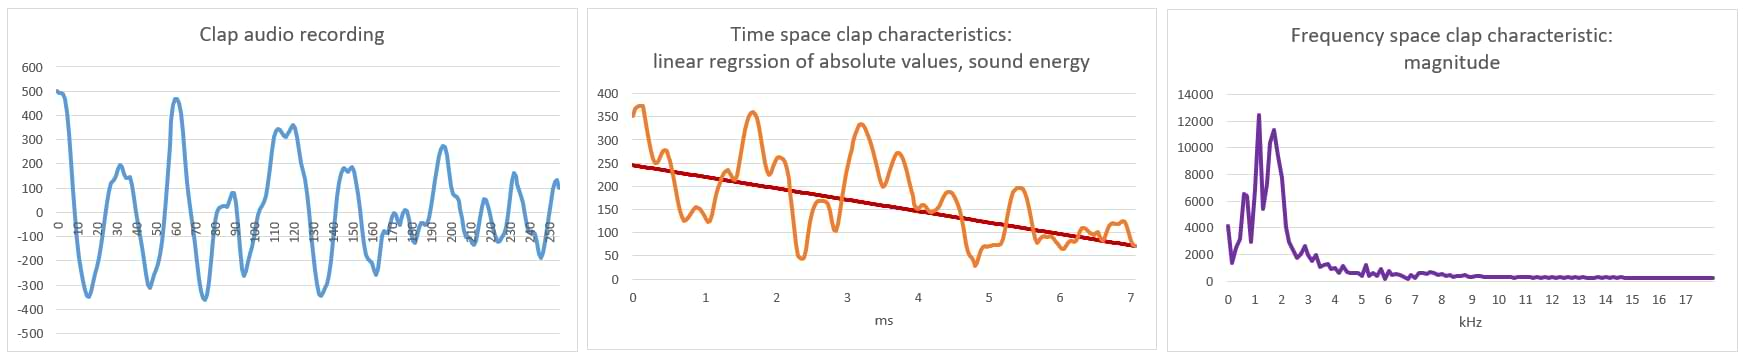
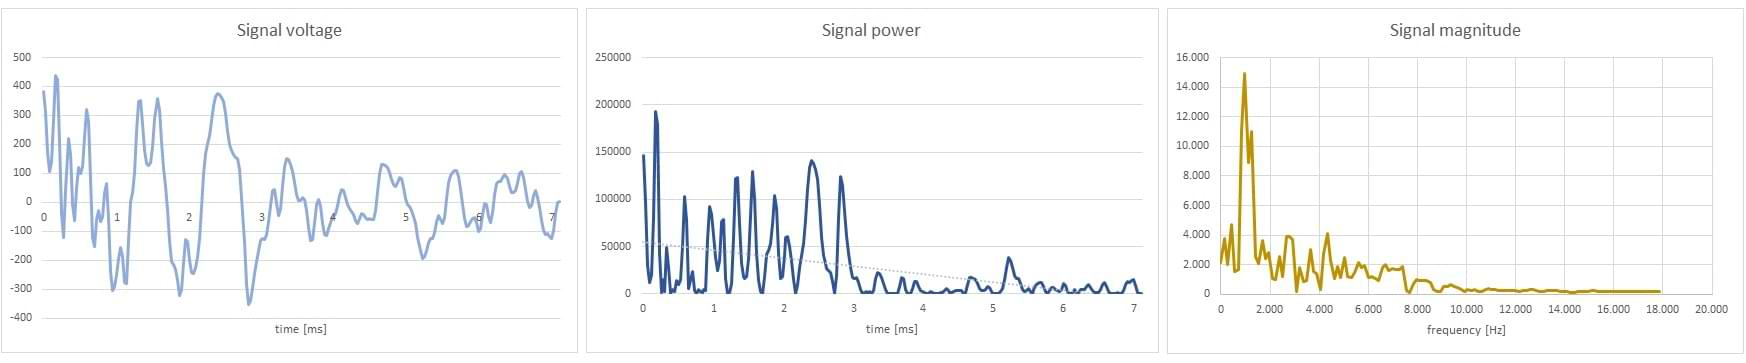
Add files via upload

diff --git a/README.md b/README.md
@@ -1,14 +1,15 @@
 
-# Neural Network from Scratch (C++ for Arduino) - Clap Recognition
+# Neural Network from Scratch (C++ for Arduino) - A Clap Recognition System
 
-Using a neural network for clap recognition might seem like overkill, but it was an exciting challenge to implement. Since this task isn’t overly demanding, Arduino boards can handle it quite well. My goal was to create a system that detects claps and toggles an LED accordingly.
+
+Ever dreamed of building a clap recognition system that stays focused—even when a dog barks or dishes clatter in the background? Lightweight neural network delivers 97% accurate clap detection, all while running efficiently on Arduino boards without straining their resources.
 
 
 ## What You Need
 
 The system is built of the following components:
 
- - Hardware: An Arduino board (including AVR boards) with an analog microphone and LED.
+ - Hardware: an Arduino board (including AVR boards like Mega 2560) with an analog microphone and LED.
 
  - Sound sampling of audio input.
 
@@ -39,7 +40,9 @@ Clap recognition, including its neural network is not very demanding. An Arduino
 A clap lasts around 7 ms. In this time we want to capture 256 samples which gives a sampling rate of 35 kHz. 
 It would be better to sample 10 ms with 40 kHz but due to limited processing power 7 ms with 35 kHz will do just fine.
 
+
 ## Neural Network
+
 
 ### The basics
 
@@ -241,7 +244,7 @@ The following training code is a little oversimplified but works well for demons
 
 Training the neural network involves setting weights and biases using training patterns at the input and expected results at the output. For each given pattern and expected result, an error is assessed at the output layer, and the weights and biases of the output layer are adjusted to minimize the error. Then, the same process is applied to the previous layer, and so on. This is why the process is called backward propagation—it propagates the error at the output layer back to the previous layers.
 
-With repeating training iterations the error gets smaller. The picture shows a typical decrease of the error during the training process.
+With repeated training iterations, the error typically decreases. However, more training doesn't always lead to better classification accuracy. A neural network can become overtrained—meaning it learns the training patterns too precisely, resulting in minimal error on known data but poor generalization to new inputs. This is not the desired outcome. The graph illustrates a typical error reduction trend during the training process.
 
 
 ![Error during training](training.jpg)
@@ -440,6 +443,7 @@ Similary we can calculate $\frac{\partial E}{\partial bias^{Loutput}}$. _E_ is a
 > \\ bias_{[n]}^{Loutput} -= learningRate \cdot {delta_{[n]}^{Loutput}} \ ; \ learningRate \ is \ tipically \ 0.01 \ ; \ n \ ∈\ [0, N^{Loutput})
 > $$
 >
+
 
 
 
@@ -659,36 +663,41 @@ Please note that delta gets updated in two distinct layers: _L_ and _L+1_. Neura
 
 ## Clap audio recording
 
+Proper preparation of input data is crucial for effective neural network performance. If we had built a convolutional neural network (CNN), we could feed it raw audio recordings directly, allowing the CNN to learn spatial and temporal patterns on its own. However, with a fully connected neural network like ours, a different strategy is required. Instead of raw data, we must extract a set of distinctive features from the sound recording—features that the network can then use for accurate classification.
+
 A clap has a distinctive shape on the oscilloscope, characterized by a loud, rapidly fading high-frequency sound. The most significant condition – a high amplitude of the sound is easily checked before the other features get estimated. These features are extracted or calculated from audio recording and (hopefully) distinguish claps from other loud sounds. Here is an example of a clap audio recording and its features. These features serve as the input to our neural network.
 
 
 ![Clap characteristics](characteristics.jpg)
 
 
-The sound is sampled with 256 samples at 35.74 kHz rate which gives 7.1 ms of audio recording. This is enough for a clap.
+The sound is sampled using 256 samples at a rate of 35.74 kHz, resulting in approximately 7.1 milliseconds of audio. This duration is sufficient to reliably detect a clap.
+
+Some features can be extracted directly from the time-domain signal, as the waveform varies over time.
 
 
-### Zero Crossing
+### Zero Crossings
 
-The sound frequency can be roughly estimated by counting how many times the recorded signal crosses the time axis. The higher the frequency, the higher the zero-crossing rate. Typically, around 20 zero-crossings in 7 milliseconds can be expected for a clap.
-
-
-### Sound Energy Pattern
-
-A clap is a rapidly fading sound. We can expect that most of the energy will be released at the beginning of a clap and will decrease over time. The energy released by the sound can be estimated by RMS (root mean square) $RMS = \sqrt{\frac{1}{n} \cdot \sum_{i = 1}^{n}} sample_{i}^{2}$. 
+Zero crossings are calculated by counting how many times the signal crosses the time axis. For a typical clap, around 20 zero crossings can be expected within a 7-millisecond window.
 
 
 ### Linear Regression Coefficient
 
-We can estimate how fast the clap sound is fading by calculating the linear regression coefficient of the absolute values of audio recording samples. 
+To estimate how quickly the sound energy decays, we calculate the linear regression coefficient of the signal’s power. Instead of using raw power values, we apply a logarithmic transformation, which better reflects human perception of loudness. This also ensures that louder segments of the recording don’t dominate the analysis, allowing quieter parts to contribute meaningfully.
 
 
-### Frequency pattern
+More distinctive features can be extracted from the frequency domain of the sound signal. Since the focus here is on the mathematical modeling and neural network implementation, we’ll only briefly outline the frequency-based feature extraction process.
 
-Frequencies contained in the audio recording are calculated with FFT (Fast Fouriere Transform). The whole frequency range is then divided into four subranges (0-500 Hz, 500 Hz-2.8 kHz, 2.8-7 kHz, 7-17.87 kHz).
+To analyze the frequency content, we apply a Fourier transform. This technique reconstructs the signal by combining sine waves of various frequencies and magnitudes, revealing which frequencies are present and how strongly they contribute. Because our signal is digitized, we use the discrete version—known as the Discrete Fourier Transform (DFT). Efficient algorithms such as the Fast Fourier Transform (FFT) compute the DFT in 𝑂(𝑛 log 𝑛) time.
+
+Human perception of frequency, like loudness, is nonlinear. We perceive pitch on a logarithmic scale. Therefore, the frequency magnitudes are mapped to the mel scale (short for “melody”), which better aligns with how we hear sound. Mel filters are then applied to resample the frequency magnitudes from a linear to a mel scale. The resulting magnitude values are also transformed logarithmically to compress dynamic range and emphasize perceptually relevant features.
+
+The number of mel filters can vary depending on the application. For clap recognition, six mel filters are typically sufficient.
 
 
-## Neural Network vs. Rule-Based Decisions
+### Mel filters
+
+Mel filters are triangular filters distributed evenly across the full range of the mel scale. Because the mel scale is logarithmic, this means their coverage across the linear frequency scale is uneven. Each mel filter is defined by three points: a start, a peak, and an end. To construct six mel filters, we need to calculate eight mel frequency points—these serve as the boundaries and peaks for the filters.
 
 
-Once the characteristics have been calculated, we can consider whether a neural network outperforms traditional hard-coded rules. The answer is: not necessarily. It tends to make different decisions, but they are not inherently better. With the addition of more input features and a broader range of test cases, we could likely improve the performance of the neural network.
+![Mel filters](mel.jpg)
